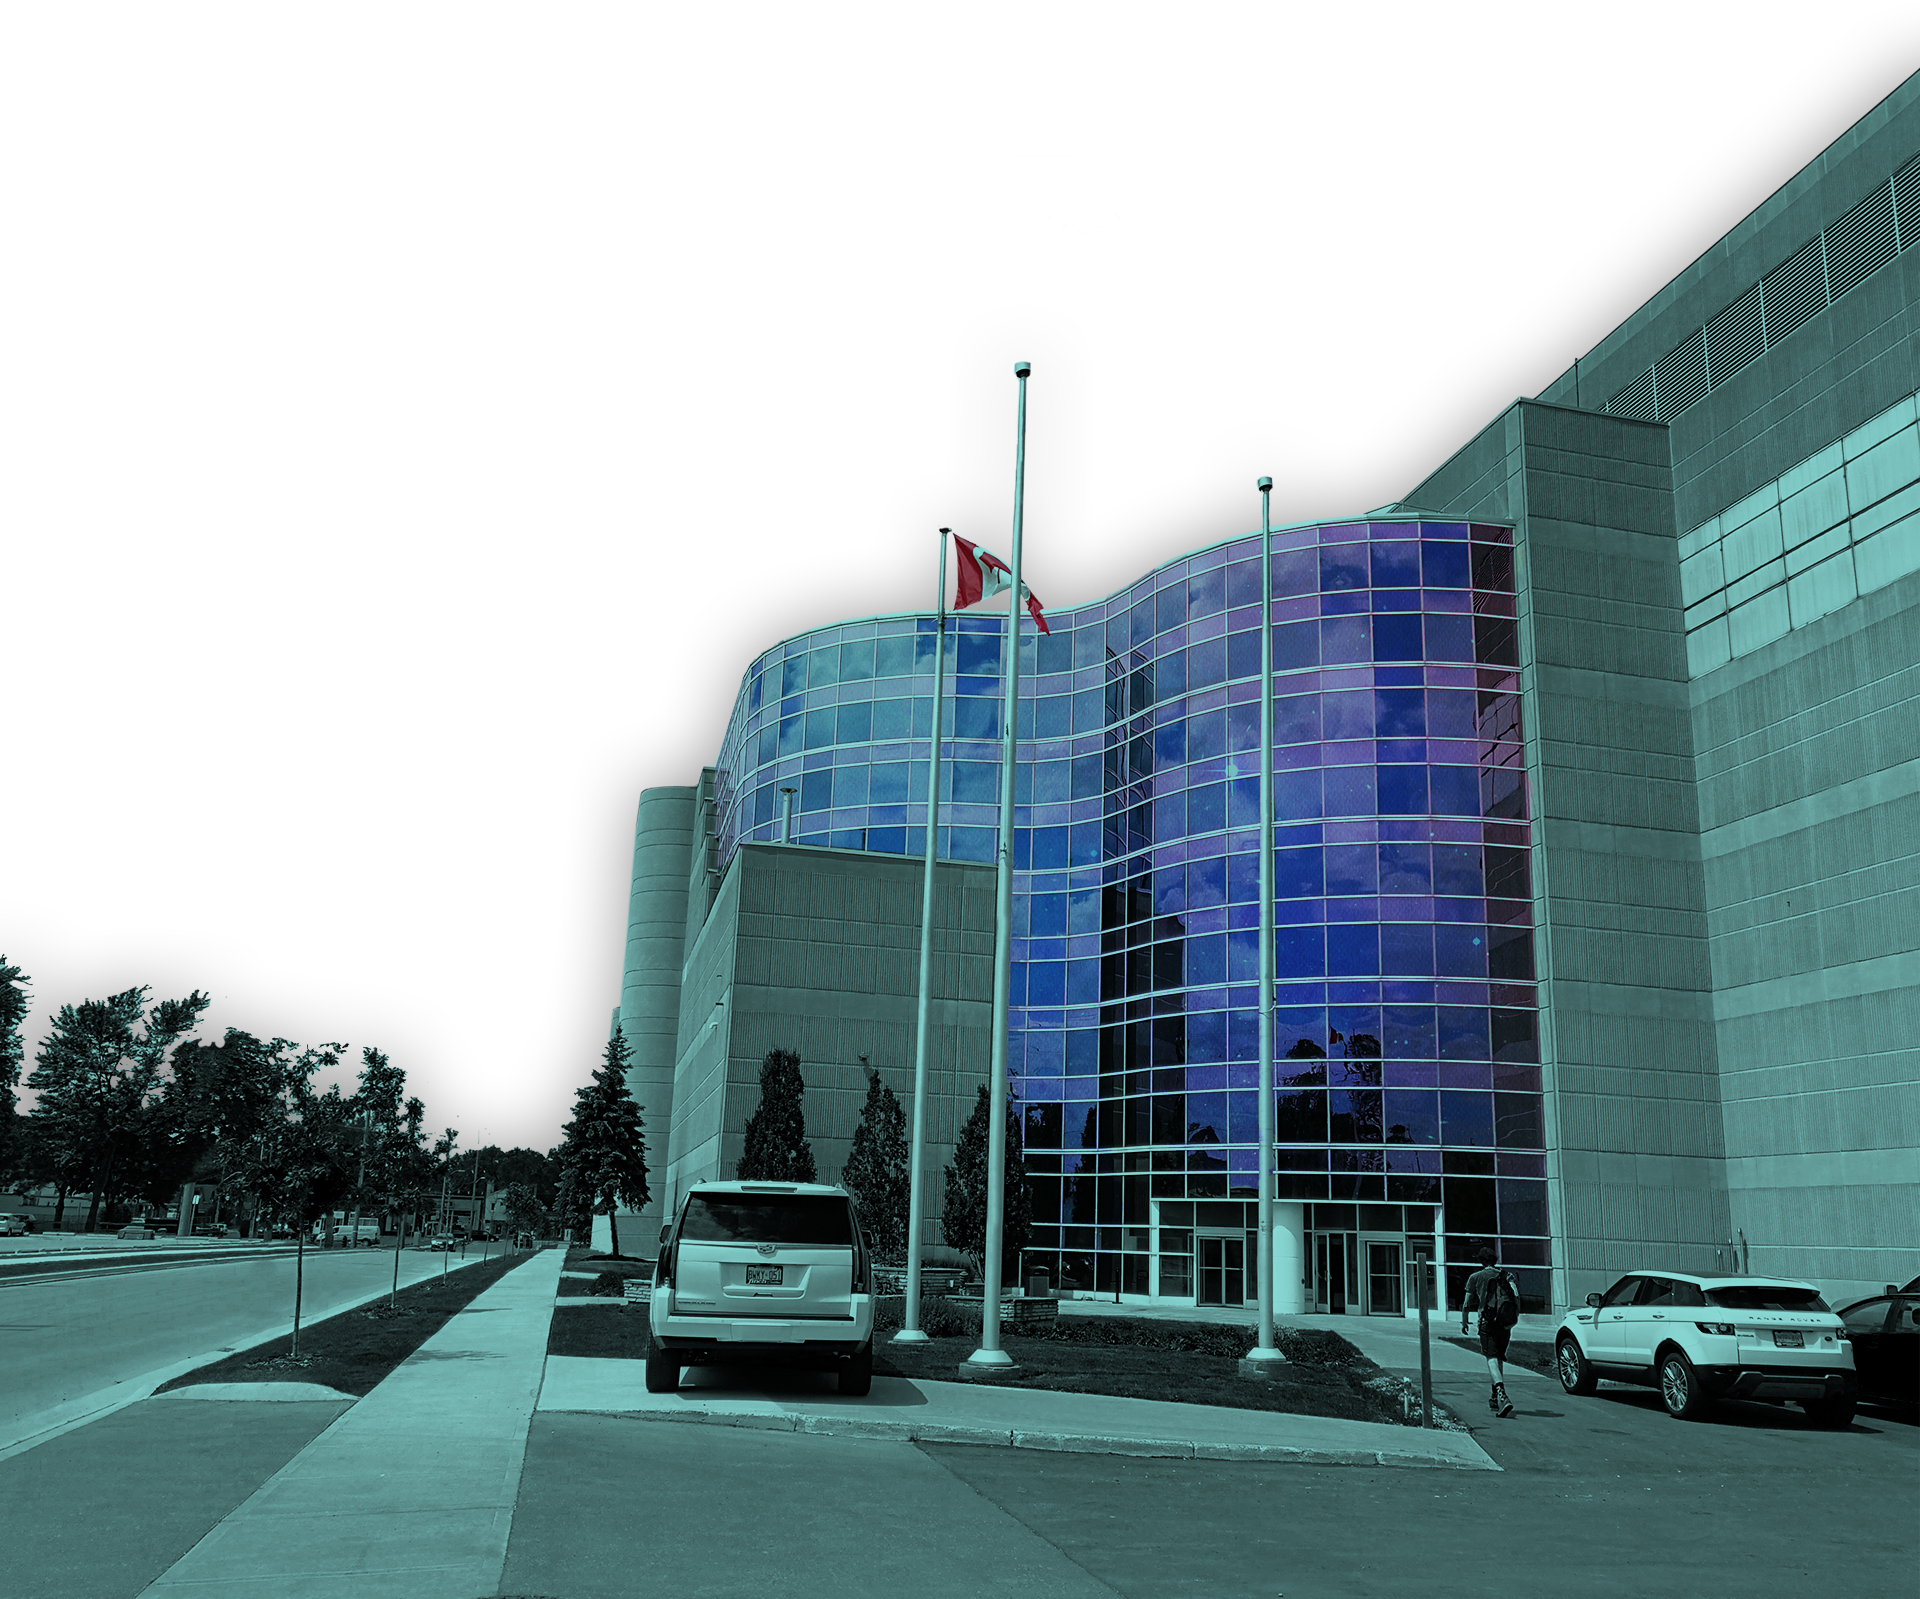
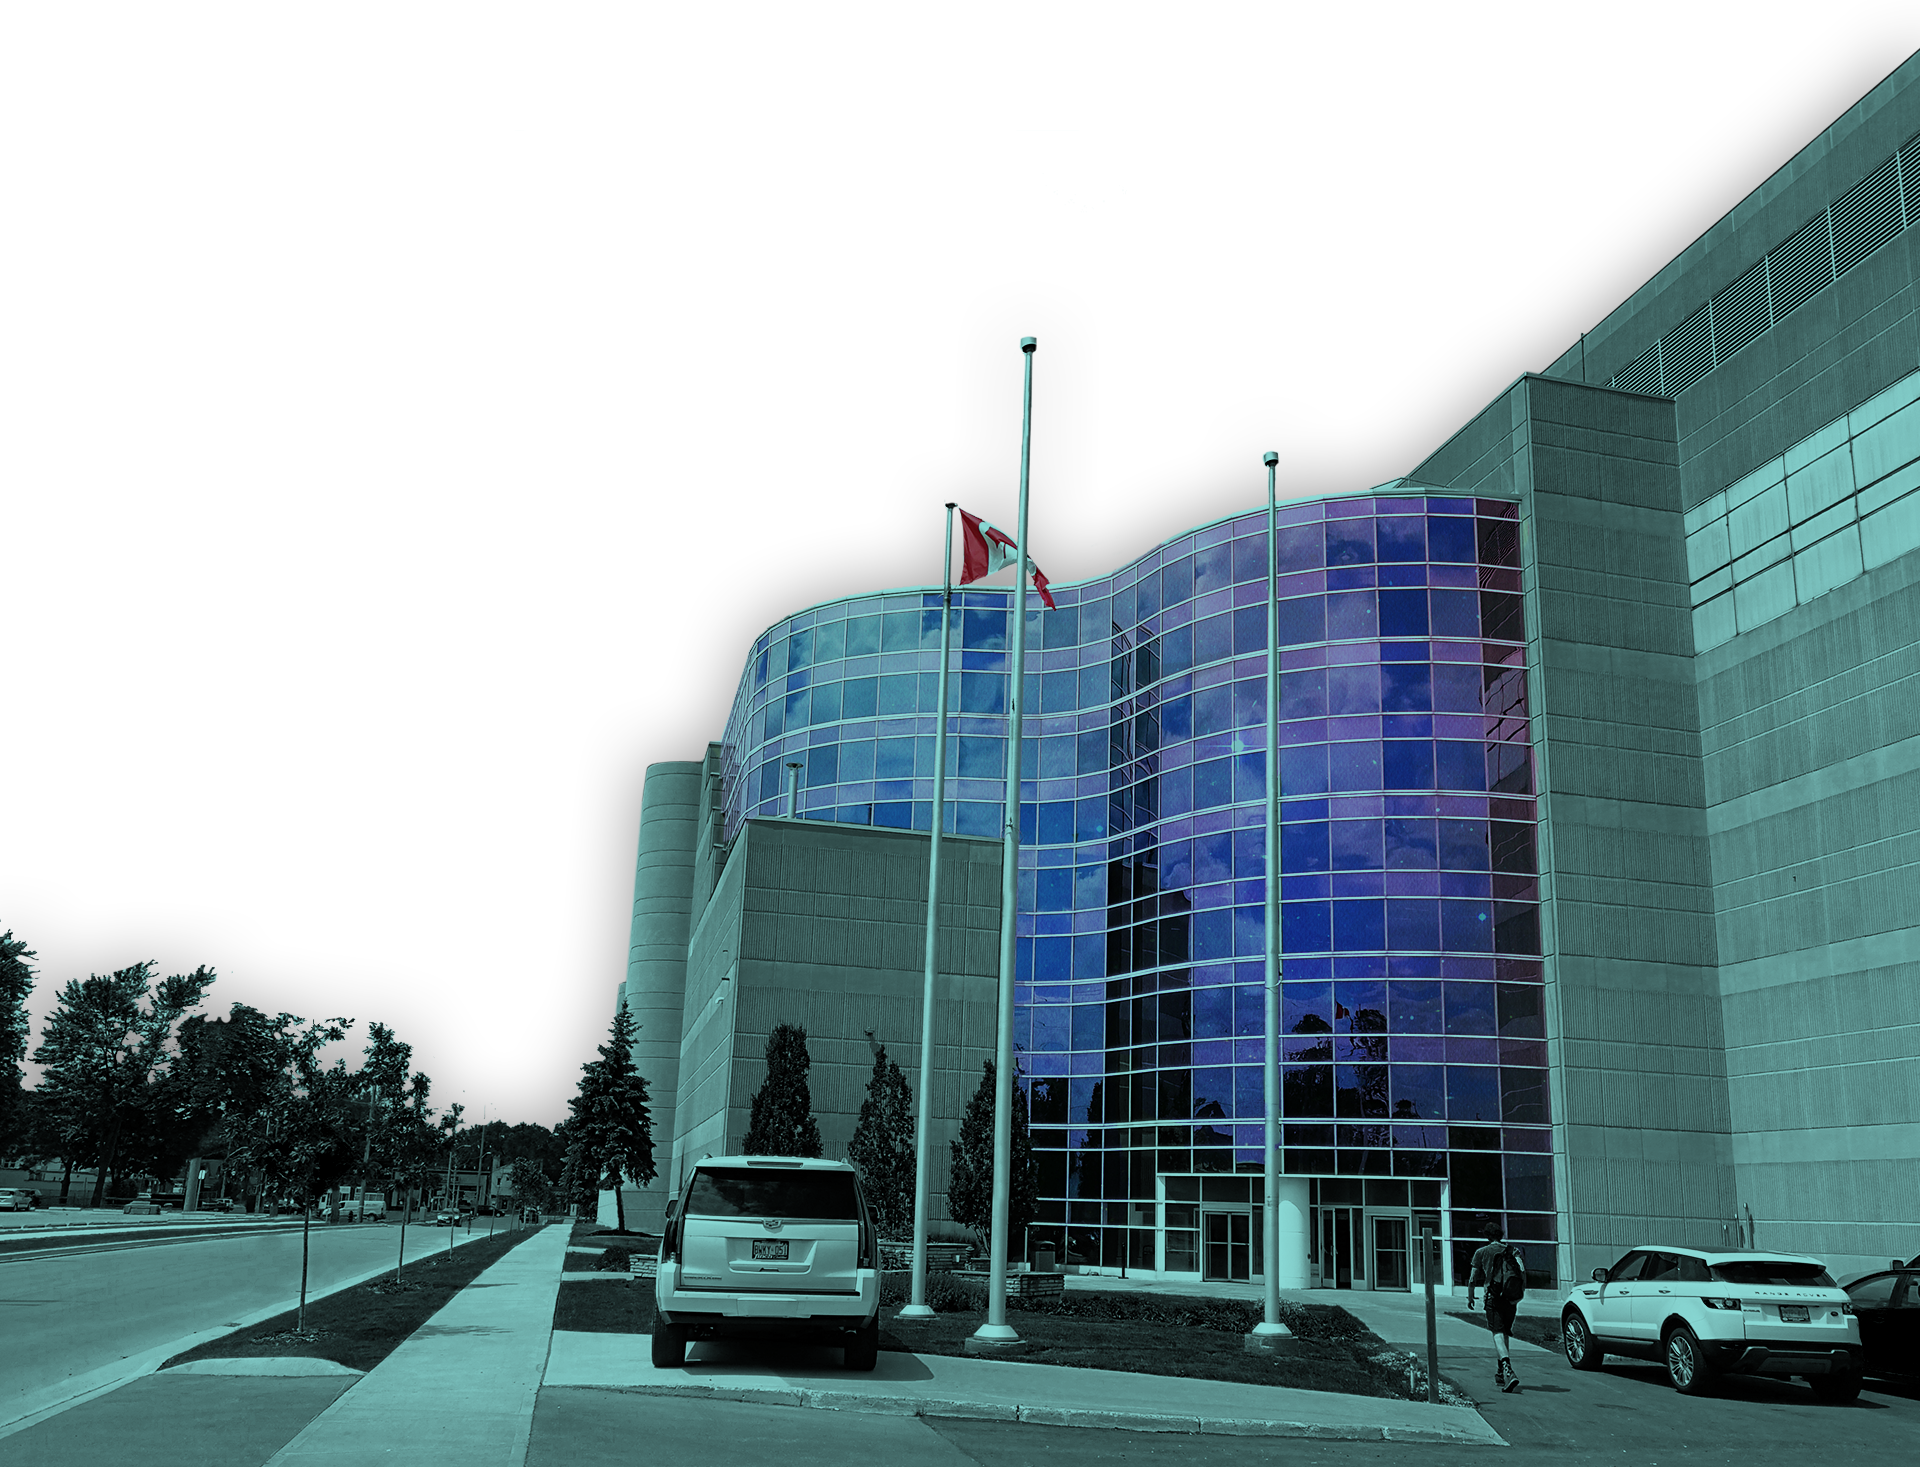
V02 Pass on About Page - Fixed building image - Fixed Team Bios - Spacing & other fixes

diff --git a/src/mdev-data.js b/src/mdev-data.js
@@ -121,10 +121,10 @@ export default  {
       employeeName: 'Lucas Moreira',
       employeeTitle: 'Chief Executive Officer, Founder',
       employeeRoute: 'lucas-moreira',
-      employeeIntro: 'With over 10 years of experience working on large-scale, high-demand web applications, Lucas has a wealth of expertise in creating web applications to serve a variety of needs.',
+      employeeIntro: 'With over 10 years of experience working on large-scale, high-demand web applications, Lucas has a wealth of expertise in creating web platforms to serve a variety of needs.',
       employeeStory: [
         'Lending his insights on technology, marketing, media relations and efficient development practices to every project he touches, Lucas ensures that MDEV’s clients can expect an extremely high level of quality.',
-        'Lucas is a board member of the MACC in London, ON, serves on the London Chamber of Commerce Marketing Committee and is also known for his expertise in FPV Drones and 3D printing on his Loose Transistor YouTube channel.'
+        'Lucas is a board member of the MACC in London, ON, serves on the London Chamber of Commerce Marketing Committee and is also known for his expertise in FPV Drones and 3D printing. You can find him on YouTube as Loose Transistor.'
       ],
       seo: {
         title: 'Lucas Moreira - CEO, Founder',
@@ -159,10 +159,10 @@ export default  {
       employeeName: 'Becky Domenico',
       employeeTitle: 'Chief Creative Officer, Founder',
       employeeRoute: 'becky-domenico',
-      employeeIntro: 'A disruptive thinker and creative visionary, Becky is constantly digging deeper to find innovative solutions to complex problems. Able to distill client goals into a cohesive creative vision that she communicates to the team for execution.',
+      employeeIntro: 'A disruptive thinker and creative visionary, Becky is constantly digging deeper to find innovative solutions to unique challenges. She’s spent the last 10 years building successful new brands and products in the emerging technology space.',
       employeeStory: [
-        'After years of leading creative and software projects, Becky has developed an uncanny ability to navigate complex timing and requirements to ensure successful project completion.',
-        'Becky currently serves as the co-chair of the Junior Achievement Marketing Advisory committee and as a LTUX Committee Member for the #ldnont chapter.'
+        'After years of leading creative and digital projects, Becky has developed an uncanny ability to navigate complex timing and requirements to ensure successful project completion.',
+        'Becky volunteers for Junior Achievement, working with their Marketing Advisory Group for the last 5 years. She also helps JA put on their annual Business Warriors Axe Throwing event.'
       ],
       seo: {
         title: 'Becky Domenico - CCO, Founder',
@@ -170,7 +170,7 @@ export default  {
       },
       employeeOrigin: 'Timmins, ON',
       employeeQuote: 'Fear is the mind killer.',
-      employeeTrick: 'Coffee Fanatic / InDesign Wizard / Agility',
+      employeeTrick: 'Coffee Enthusiast / Design Wizard / Tower Defender',
       employeeImage: 'bios/bio-becky.png',
       socialLinks: [
         {
@@ -203,17 +203,17 @@ export default  {
       employeeName: 'Luis Guerrero',
       employeeTitle: 'Digital Marketing Manager',
       employeeRoute: 'luis-guerrero',
-      employeeIntro: 'An award-winning digital marketer with a vast amount of experience ranging from sales to department director, Luis has developed a knack for making the digital space a little more human. His experience in working with companies and major social media influencers from all parts of the world allows him to bring unique and refreshing ideas to the marketing table.',
+      employeeIntro: 'An award-winning digital marketer with a vast amount of experience ranging from sales to department director, Luis has developed a knack for making the digital space a little more human.',
       employeeStory: [
-        'Winning the Americas division, and placing top five globally in the 2014 Google Online Marketing Challenge jump started Luis’ career in internet and social media marketing.',
-        'He’s naturally passionate person with a love for music and dance (he teaches salsa and bachata), and a lover of sports.'
+        'In 2014, Luis won the Google Online Marketing Challenge in the America’s division, placing top five overall globally, which jump-started his career in internet and social media marketing.',
+        'His experience working with companies and major social media influencers from all parts of the world allows him to bring unique and refreshing ideas to the marketing table. Luis is a naturally passionate person with a love for music, dance, and sports.'
       ],
       seo: {
         title: 'Luis Guerrero - Digital Marketing Manager',
         description: 'Meet Luis Guerrero, our Digital Marketing Manager.'
       },
       employeeOrigin: 'Guatemala',
-      employeeQuote: false,
+      employeeQuote: 'He who says he can and he who says he can\'t are both usually right - Confucius',
       employeeTrick: 'Salsa and Bachata Instructor',
       employeeImage: 'bios/bio-luis.png',
       socialLinks: [
@@ -241,10 +241,10 @@ export default  {
       employeeName: 'Haly Hawkins',
       employeeTitle: 'Graphic Designer',
       employeeRoute: 'haly-hawkins',
-      employeeIntro: 'Haly gained an abundance of experience from her 3 years at Fanshawe College, graduating from the Graphic Design Advanced Diploma program, being a student-employee in the Fanshawe Athletics Department as the PR Publications Assistant, and the captain of the Women’s Varsity Basketball team.',
+      employeeIntro: 'Haly gained an abundance of experience from her 3 years at Fanshawe College. While taking the Graphic Design Advanced Diploma program, Haly was also a student-employee in the Fanshawe Athletics Department, and the captain of the Women’s Varsity Basketball team.',
       employeeStory: [
-        'As an organized team player Haly took on many roles at Fanshawe. From national scholar, leadership, and athletic awards being a student-employee and student-athlete has proven her wonders.',
-        'Haly has recently embarked on a month long marine conservation volunteer trip in Thailand to research, protect and restore coral reefs'
+        'Her ability to take on many roles at Fanshawe translated naturally into her role at MDEV. A national scholar, who earned leadership and athletic awards, all while balancing a full course-load and part-time design job, Haly has proven herself to be extremely organized and versatile.',
+        'Haly has recently embarked on a month-long marine conservation volunteer trip in Thailand to research, protect and restore coral reefs. On her down time, Haly also volunteers with the local non-profit organization OneRun.'
       ],
       seo: {
         title: 'Haly Hawkins - Lead Designer',
@@ -279,9 +279,9 @@ export default  {
       employeeName: 'Graham Coutts',
       employeeTitle: 'Full-Stack Developer',
       employeeRoute: 'graham-coutts',
-      employeeIntro: 'Whether he\'s improving the efficiency and processing capabilities of antiquated systems for large companies, or working on integrating numerous emerging web technologies, Graham always plays key role in designing and developing effective systems for any situation.',
+      employeeIntro: 'Whether he\'s improving the efficiency and processing capabilities of antiquated systems for large companies, or working on integrating numerous emerging web technologies, Graham plays a key role at MDEV in designing and developing effective systems for any situation.',
       employeeStory: [
-        'Graham also occasionally teaches programming classes as a part-time instructor at Fanshawe College as a part of the Advanced Programming Game development program.'
+        'He also occasionally teaches programming classes as a part-time instructor at Fanshawe College in the Advanced Programming Game development program. Graham enjoys a diverse range of challenging hobbies including brain teaser puzzles, 3D printing and VR programming.'
       ],
       seo: {
         title: 'Graham Coutts - Full-stack Developer',
@@ -307,7 +307,7 @@ export default  {
       },
       employeeOrigin: 'Guelph, ON',
       employeeQuote: 'Quote Here',
-      employeeTrick: 'Tea Drinker / Human Mop / Technologic Swiss Army Knife',
+      employeeTrick: 'Avid Reader / Dark Souls Master / Front-end ',
       employeeImage: 'bios/bio-dorian.png',
       socialLinks: false
     }
@@ -1260,6 +1260,7 @@ export default  {
     },
     hood: {
       foreground: 'about/100-kellogg-building.png',
+      foregroundMob: 'about/100-kellogg-building-mobile.png',
       a11y: 'Our offices located on 100 Kellogg',
       decoration: true,
       background: 'about/100-kellogg-background.png',

diff --git a/src/components/about/about--hood.vue b/src/components/about/about--hood.vue
@@ -9,7 +9,8 @@
       </p>
     </div>
     <div class="mdev-100-kell" :class="{'--decoration' : decoration}">
-      <img :src="loadImage(foreground)" :alt="a11y"/>
+      <img :src="loadImage(foreground)" :alt="a11y" class="--landscape"/>
+      <img :src="loadImage(foregroundMob)" :alt="a11y" class="--portrait"/>
     </div>
     <div class="mdev-hood-mask --triangle-top-r">
       <img :src="loadImage(background)" class="--rotate-hood" v-in-viewport/>
@@ -24,6 +25,7 @@ export default{
   props: [
     'background',
     'foreground',
+    'foregroundMob',
     'a11y',
     'heading',
     'text',
@@ -45,30 +47,32 @@ export default{
   top: 0;
   bottom: 0;
   z-index: 1;
+  overflow: hidden;
 }
+$rotate-duration: 930s;
 
 .--rotate-hood.in-viewport,
 .--rotate-hood.above-viewport {
   animation: rotate-anim infinite;
-  animation-duration: 320s;
+  animation-duration: $rotate-duration;
   animation-timing-function: linear;
   z-index: 1;
 
   @media #{$portrait} {
     animation: rotate-anim-prt infinite;
-    animation-duration: 320s;
+    animation-duration: $rotate-duration;
     animation-timing-function: linear;
   }
 
   @media #{$phone-only} {
     animation: rotate-anim-mob infinite;
-    animation-duration: 320s;
+    animation-duration: $rotate-duration;
     animation-timing-function: linear;
   }
 
   @media #{$xl-up} {
     animation: rotate-anim-xl infinite;
-    animation-duration: 320s;
+    animation-duration: $rotate-duration;
     animation-timing-function: linear;
   }
 }
@@ -98,6 +102,11 @@ export default{
     bottom: 30%;
     border: 4px solid $color-brand-accent;
     z-index: -1;
+
+    @media #{$portrait} {
+      top: 25px;
+      right: -200%;
+    }
   }
 }
 
@@ -114,8 +123,16 @@ export default{
 
   @media #{$portrait} {
     top: 120px;
-    width: 70%;
+    width: 80%;
     @include center(horizontal);
+
+    h2 {
+      font-size: 115px;
+    }
+
+    p {
+      padding-right: 10%;
+    }
   }
 
   @media #{$laptop-only} {
@@ -130,8 +147,16 @@ export default{
   }
 
   @media #{$phone-only} {
-    width: 80%;
-    top: 80px;
+    top: 50px;
+    text-align: center;
+
+    h2 {
+      font-size: 80px;
+    }
+
+    p {
+      padding-right: 0;
+    }
   }
 
   @media #{$xl-up} {

diff --git a/src/components/about/about.vue b/src/components/about/about.vue
@@ -30,9 +30,11 @@
       :title="company.process.title">
       <!-- Action Slot -->
       <template slot="action">
+        <!-- [ Temporarily Disabled ]
         <btn-primary :BtnData="BtnData">
           {{ $t("homepage.casestudies.action") }}
         </btn-primary>
+        -->
       </template>
     </process-section>
     <!-- Philosophy Section -->
@@ -65,6 +67,7 @@
     <about-hood
       :background="company.hood.background"
       :foreground="company.hood.foreground"
+      :foregroundMob="company.hood.foregroundMob"
       :a11y="company.hood.a11y"
       :heading="company.hood.heading"
       :text="company.hood.text"
@@ -215,7 +218,7 @@ export default{
   padding-top: 40%;
 
   @media #{$portrait} {
-    padding-top: 115%;
+    padding-top: 100%;
   }
 
   @media #{$phone-only} {

diff --git a/src/components/about/about--prefooter.vue b/src/components/about/about--prefooter.vue
@@ -81,6 +81,7 @@ export default{
 
   @media #{$portrait} {
     padding-left: 50px;
+    padding-bottom: 60px;
   }
 
   @media #{$phone-only} {
@@ -89,10 +90,18 @@ export default{
 
   .--huge-title {
     margin-bottom: 50px;
+
+    @media #{$phone-only} {
+      margin-bottom: 25px;
+    }
   }
 
   .mdev-section-links {
     width: auto;
+
+    @media #{$phone-only} {
+      padding-top: 25px;
+    }
 
     a {
       color: $color-brand-bkg;
@@ -128,6 +137,7 @@ export default{
     @media #{$phone-only} {
       margin-left: 0;
       margin-top: 25px;
+      font-size: 7.3vw;
     }
   }
 }

diff --git a/src/components/about/about--team.vue b/src/components/about/about--team.vue
@@ -53,6 +53,14 @@ export default{
   position: relative;
   overflow: hidden;
 
+  &.--section-space {
+    margin: 75px 0 150px;
+
+    @media #{$portrait} {
+      margin: 50px 0;
+    }
+  }
+
   .--subheading {
     font-size: 40px;
   }
@@ -141,11 +149,19 @@ export default{
   left: -20px;
   right: 15%;
   bottom: 125px;
+
+  @media #{$portrait} {
+    left: 5px;
+  }
 }
 
 .--luis:before {
   right: -15px;
   left: 10%;
+
+  @media #{$portrait} {
+    right: 15px;
+  }
 }
 
 .--graham:before {

diff --git a/src/components/about/about--philosophy.vue b/src/components/about/about--philosophy.vue
@@ -96,17 +96,29 @@ export default{
   .mdev-icon-subhead {
     display: block;
     font-size: 18px;
+
+    @media #{$phone-only} {
+      text-align: center;
+    }
   }
 
   .mdev-icon-head {
     display: block;
     font-size: 32px;
     margin: 10px 0 15px;
+
+    @media #{$phone-only} {
+      text-align: center;
+    }
   }
 
   .mdev-icon-text {
     font-size: 18px;
     line-height: 30px;
+
+    @media #{$phone-only} {
+      text-align: center;
+    }
   }
 }
 

diff --git a/src/components/about/about--founders.vue b/src/components/about/about--founders.vue
@@ -52,6 +52,8 @@ export default{
   overflow: hidden;
 
   &.--section-space {
+    margin: 150px 0 75px;
+
     @media #{$portrait} {
       margin: 100px 0 50px;
     }
